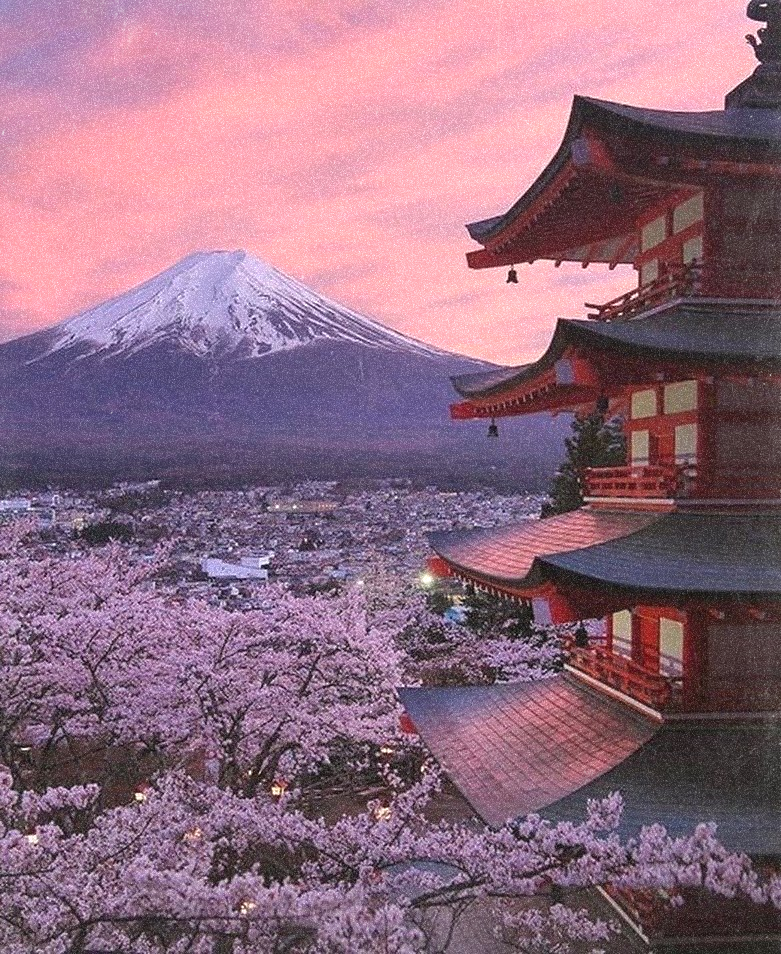
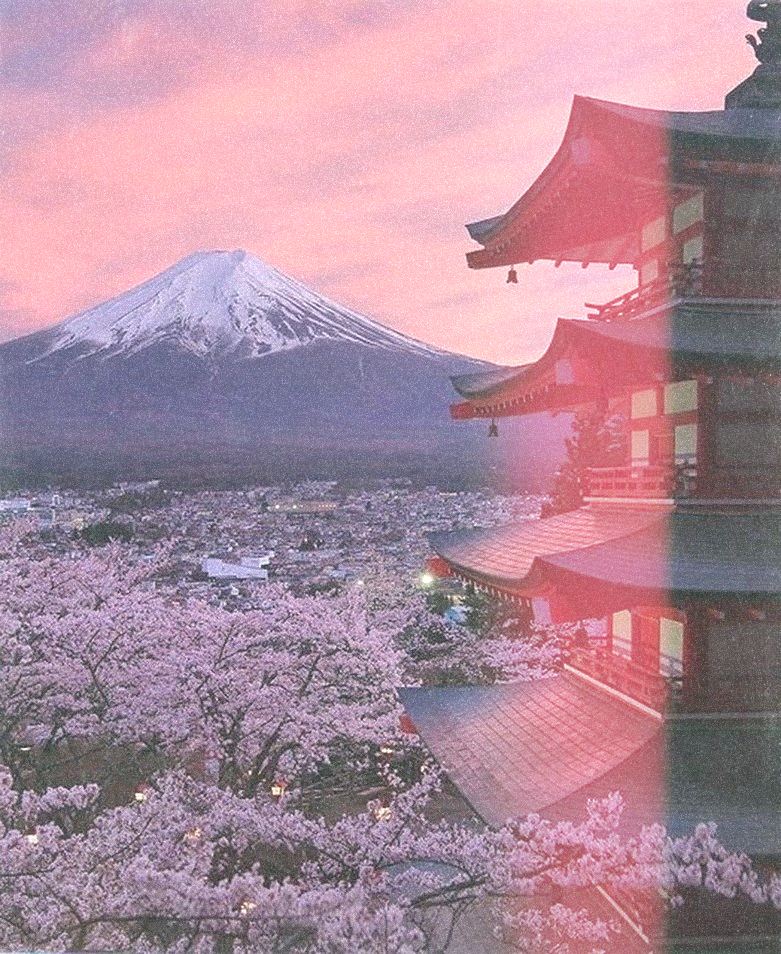
feat: apply solar flare to image

diff --git a/src/main.rs b/src/main.rs
@@ -97,6 +97,29 @@ fn apply_film_dust(image: &mut DynamicImage) {
     }
 }
 
+fn apply_solar_flare(image: &mut DynamicImage) {
+    // Scale solar flare to image size
+    let solar_flare = ImageReader::open("./src/res/solar_flare.jpg").expect("solar_flare.jpg");
+    let solar_flare = solar_flare
+        .decode()
+        .expect("decode solare_flare.jpg")
+        .resize_exact(
+            image.width(),
+            image.height(),
+            image::imageops::FilterType::Triangle,
+        );
+    // Blend the pixels
+    for y in 0..image.height() {
+        for x in 0..image.width() {
+            image.put_pixel(
+                x,
+                y,
+                apply_screen_blend(image.get_pixel(x, y), solar_flare.get_pixel(x, y)),
+            );
+        }
+    }
+}
+
 fn main() {
     let args: Vec<String> = env::args().collect();
     let file_path = &args[1];
@@ -104,9 +127,9 @@ fn main() {
     let mut img = ImageReader::open(file_path).expect("valid image file to exist");
     let mut img = img.decode().expect("decode image");
     let noise = create_gaussian_noise(0.0, 0.08, img.width(), img.height(), true);
-    // Apply noise
     apply_noise(&mut img, noise);
     apply_film_dust(&mut img);
+    apply_solar_flare(&mut img);
 
     img.save("film_dust_image.png");
 }
